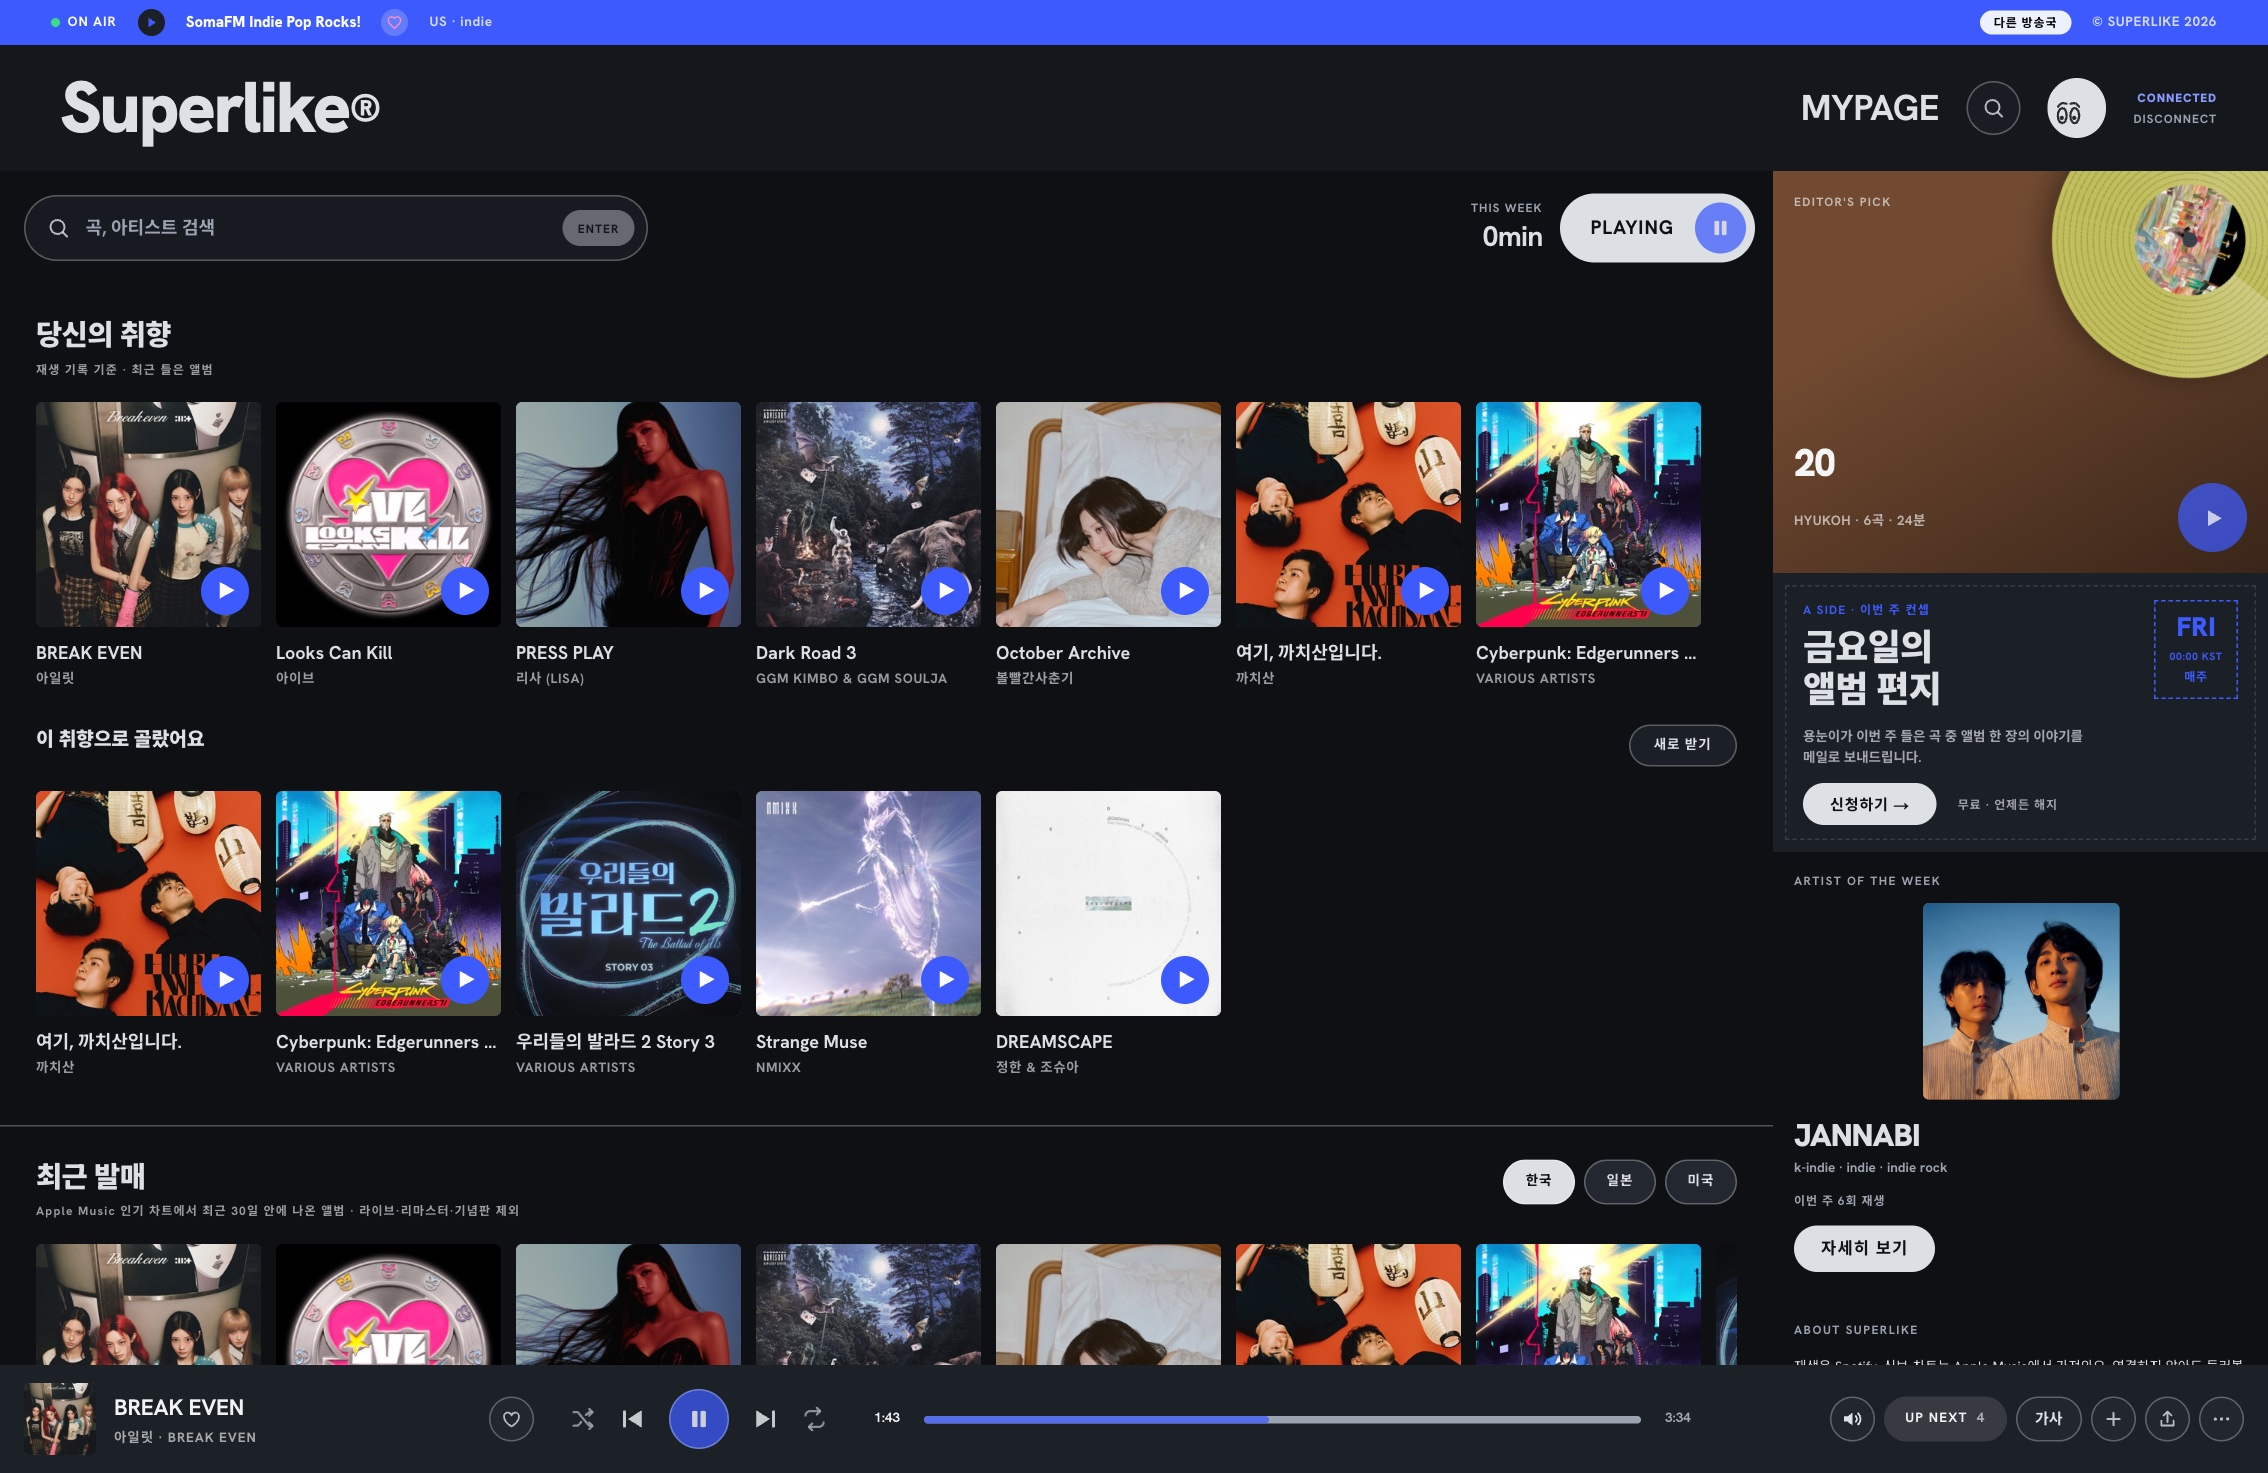
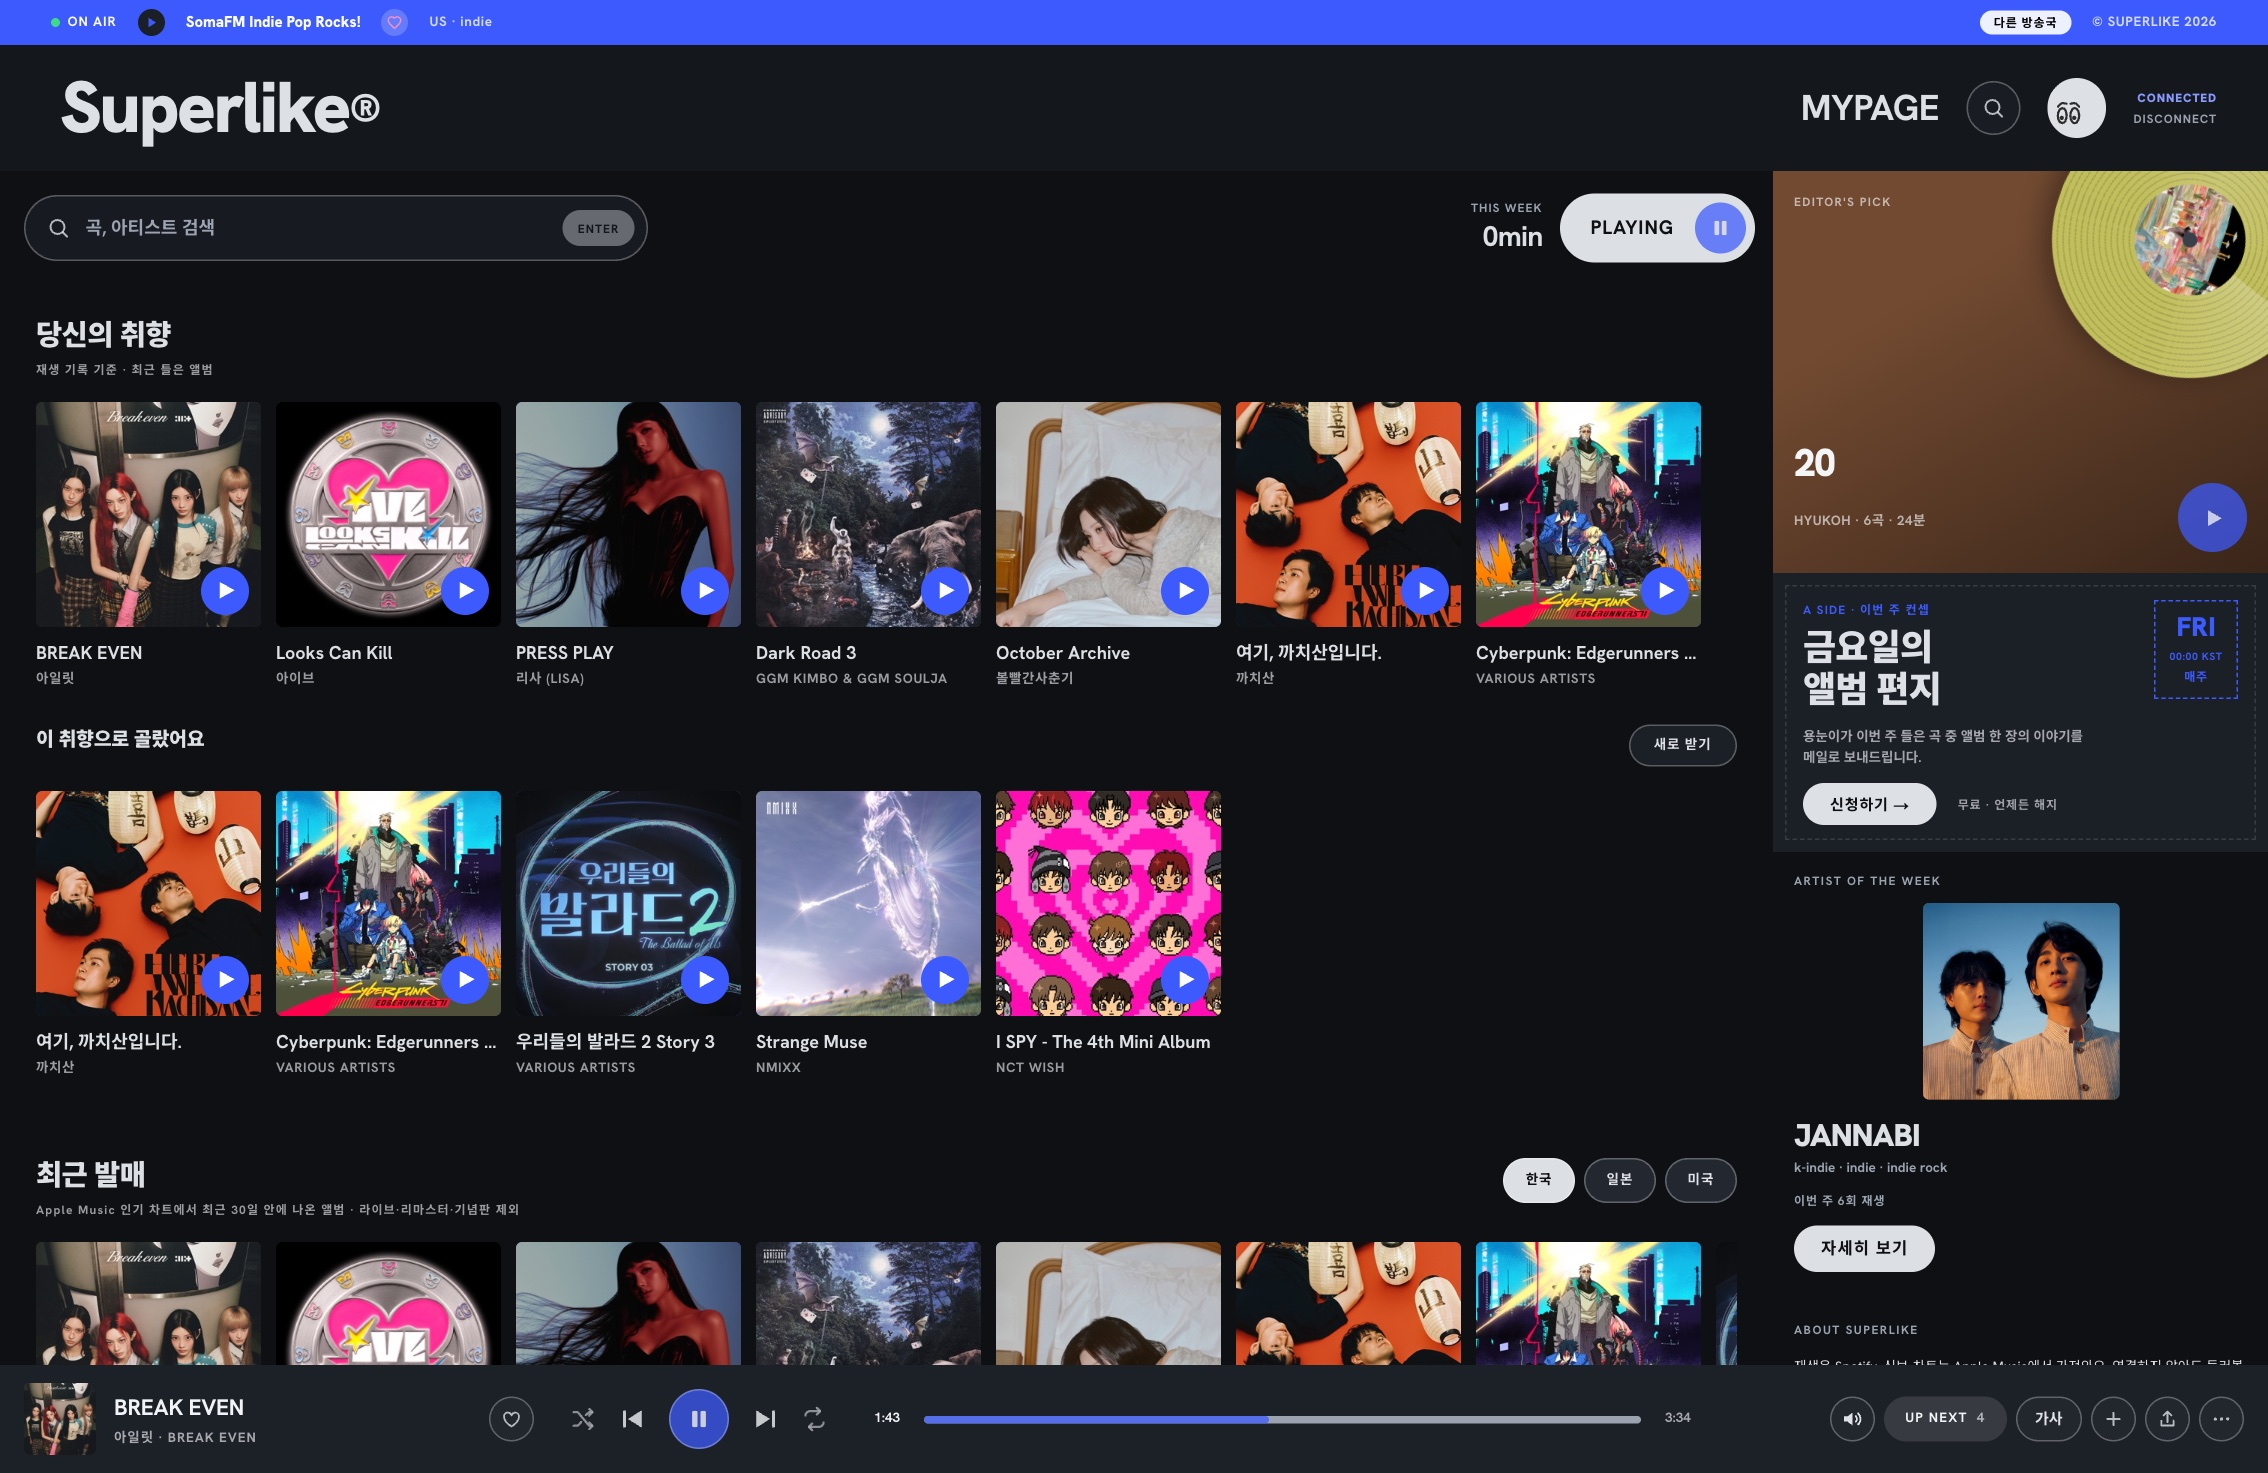
홈: 구역 사이의 가로 구분선 삭제
당신의 취향, 최근 발매, 좋아요한 곡 아래의 1.5px 선을 뺐다. 이용 안내의 홈·화면 구성·다크 캡처 3장도 다시 찍었다.

diff --git a/components/home/releases-block.tsx b/components/home/releases-block.tsx
@@ -82,7 +82,7 @@ export function ReleasesBlock() {
   }, [country, loaded]);
 
   return (
-    <section className="flex w-full shrink-0 flex-col gap-[16px] border-b-[1.5px] border-rule px-[24px] pb-[24px] pt-[20px]">
+    <section className="flex w-full shrink-0 flex-col gap-[16px] px-[24px] pb-[24px] pt-[20px]">
       <SectionHead
         title="최근 발매"
         note="Apple Music 인기 차트에서 최근 30일 안에 나온 앨범 · 라이브·리마스터·기념판 제외"

diff --git a/components/home/taste-block.tsx b/components/home/taste-block.tsx
@@ -99,7 +99,7 @@ export function TasteBlock() {
   const note = "재생 기록 기준 · 최근 들은 앨범";
 
   return (
-    <section className="flex w-full shrink-0 flex-col gap-[16px] border-b-[1.5px] border-rule px-[24px] pb-[24px] pt-[20px]">
+    <section className="flex w-full shrink-0 flex-col gap-[16px] px-[24px] pb-[24px] pt-[20px]">
       <SectionHead title="당신의 취향" note={note} />
 
       {!hydrated || (connected && state.kind === "loading") ? (

diff --git a/components/mypage/liked-tracks.tsx b/components/mypage/liked-tracks.tsx
@@ -74,7 +74,7 @@ export function LikedTracks() {
 
   return (
     <section
-      className={`flex w-full shrink-0 flex-col gap-[16px] border-b-[1.5px] border-rule px-[24px] pb-[24px] pt-[20px] ${
+      className={`flex w-full shrink-0 flex-col gap-[16px] px-[24px] pb-[24px] pt-[20px] ${
         listed ? "" : "min-h-[306px]"
       }`}
     >
